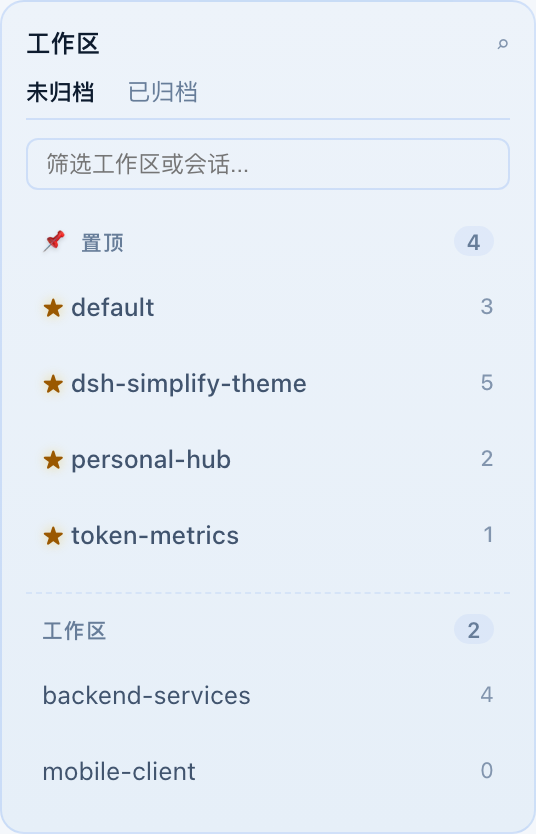
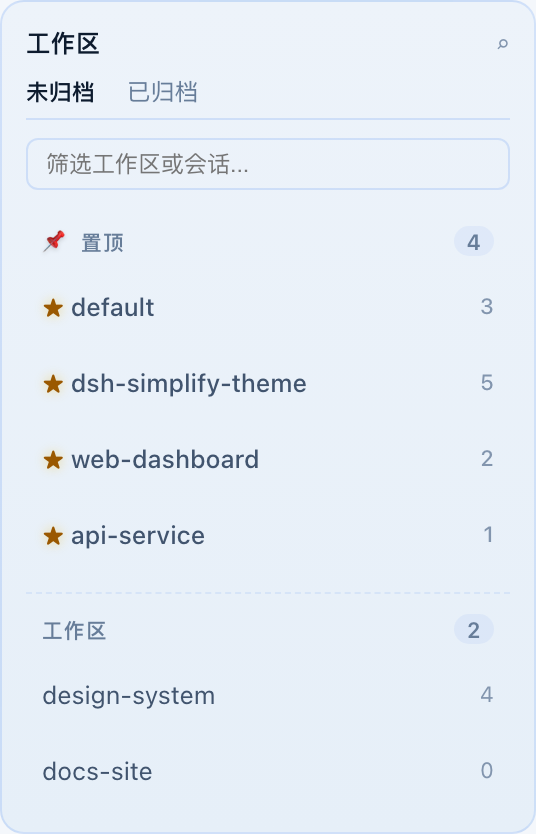
fix: 清理测试与演示数据中的本机路径和真实项目名
发布前隐私审查发现的问题：

- 4 个浏览器测试把仓库根目录硬编码为本机绝对路径（含用户名），
  host-layout 更有指向另一个私有项目的 Playwright 兜底路径与
  Chromium 缓存路径。改为由脚本自身位置推导（fileURLToPath + new URL），
  浏览器与 Playwright 交给环境变量或包解析。
- 截图脚本与侧栏测试使用真实本机项目名（personal-hub / token-metrics /
  backend-services / mobile-client）作为演示工作区，已换成
  web-dashboard / api-service / design-system / docs-site，并重出全部参考图。
- delegation 单测注释中的真实会话 ID 已脱敏。

主题 token、类名、包名与插件 ID 保持不变，纯清理，无行为变更。

diff --git a/tests/client/delegation.spec.ts b/tests/client/delegation.spec.ts
@@ -136,7 +136,7 @@ describe('per-delegation matching', () => {
     claimed.add(child1.id)
 
     // 第 2 行：只有泛化提示（无 UUID 且无描述）。真实场景里这可能是任何回合的
-    // spawn/subagent 行，盲目时序认领会把卡片错绑到别的子代理（session-91287a0d 实测），
+    // spawn/subagent 行，盲目时序认领会把卡片错绑到别的子代理（真实会话实测复现），
     // 所以宁缺毋滥：匹配不到就返回 undefined。
     const row2Text = '子智能体 运行中'
     expect(matchSubagentId(row2Text, sessionStore, 'session-root', claimed, [child1.id, child2.id, child3.id]))
